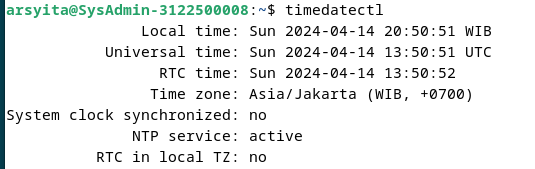
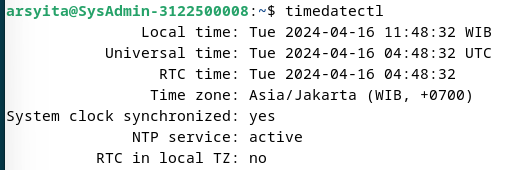
edit

diff --git a/Tugas_5/README.md b/Tugas_5/README.md
@@ -41,101 +41,116 @@ POLITEKNIK ELEKTRONIKA NEGERI SURABAYA <br>
    ![alt text](img/pic8.png)
 7. Cek kesesuaian tanggal
    ![alt text](img/pic9.png)
+8. Cek status
+   ![alt text](img/pic10.png)
 
 ## Install Web Server (Apache2 + PHP-FM)
 1. Install apache 2
-   ```
-   sudo apt -y install apache2
-   ```
+   ![alt text](img/pic11.png)
+
 2. Lakukan konfigurasi Apache2
    ```
    sudo nano /etc/apache2/conf-enabled/security.conf
    ```
-   ![alt text](img/pic10.png)
+   ![alt text](img/pic12.png)
     ```
    sudo nano /etc/apache2/mods-enabled/dir.conf
    ```
-   ![alt text](img/pic11.png)
+   ![alt text](img/pic13.png)
    ```
    sudo nano /etc/apache2/apache2.conf
    ```
-   ![alt text](img/pic12.png)
+   ![alt text](img/pic14.png)
    ```
    sudo nano /etc/apache2/sites-enabled/000-default.conf
    ```
-   ![alt text](img/pic13.png)
+   ![alt text](img/pic15.png)
    ```
    systemctl reload apache2
    ```
-   ![alt text](img/pic14.png)
 3. Test ke web browser
-   ![alt text](img/pic15.png)
+   ![alt text](img/pic16.png)
 
 ## Install PHP 8.2
 1. Lakukan penginstalan
-   ![alt text](img/pic16.png)
-2. Mengecek versi php dan test
    ![alt text](img/pic17.png)
+2. Mengecek versi php dan test
    ![alt text](img/pic18.png)
+   ![alt text](img/pic19.png)
 
 ## Install PHP-FM
 1. Lakukan penginstalan
-   ![alt text](img/pic17.png)
-2. Konfifurasi PHP-FM pada file konfigurasi Apache
-   ![alt text](img/pic18.png)
-3. Test validasi PHP-FM degan membuat file info.php di root document
-   ![alt text](img/pic19.png)
-4. Lakukan test di browser
    ![alt text](img/pic20.png)
+2. Konfifurasi PHP-FM pada file konfigurasi Apache
+   ```
+      systemctl reload apache2 
+   ```
+   ![alt text](img/pic21.png)
+   ![alt text](img/pic22.png)
+   ```
+      sudo systemctl restart php8.2-fpm apache2 
+   ```
+3. Test validasi PHP-FM degan membuat file info.php di root document
+   ```
+      sudo nano /var/www/html/info.php
+   ```
+   ![alt text](img/pic23.png)
+4. Lakukan test di browser
+   ![alt text](img/pic24.png)
 
 # Database System : MariaDB
 1. Lakukan penginstalan
-   ![alt text](img/pic21.png)
+   ![alt text](img/pic25.png)
 2. Lakukan konfigurasi
-   ![alt text](img/pic22.png)
+   ```
+   sudo nano /etc/mysql/mariadb.conf.d/50-server.cnf
+   ```
+   ![alt text](img/pic.png)
 3. Lakukan restart mariadb
-   ![alt text](img/pic23.png)
+   ```
+   sudo systemctl restart mariadb
+   ```
 4. Inisialisasi konfigurasi dan testing database mariadb
    ```
    sudo mysql_secure_installation
    ```
-   ![alt text](img/pic24.png)
+   ![alt text](img/pic27.png)
    ```
    sudo mysql
    ```
-   ![alt text](img/pic25.png)
+   ![alt text](img/pic28.png)
    ```
    show grants for root@localhost;
    ```
-   ![alt text](img/pic26.png)
+   ![alt text](img/pic29.png)
    ```
    select user,host,password from mysql.user; 
    ```
-   ![alt text](img/pic27.png)
+   ![alt text](img/pic30.png)
    ```
    show databases; 
    ```
-   ![alt text](img/pic28.png)
+   ![alt text](img/pic31.png)
    ```
    create database test_database;
    ```
-   ![alt text](img/pic29.png)
+   ![alt text](img/pic32.png)
    ```
    create table test_database.test_table (id int, name varchar(50), address varchar(50), primary key (id)); 
    ```
-   ![alt text](img/pic30.png)
+   ![alt text](img/pic33.png)
    ```
     insert into test_database.test_table(id, name, address) values("001", "Debian", "Hiroshima"); 
    ```
-   ![alt text](img/pic31.png)
+   ![alt text](img/pic34.png)
    ```
     select * from test_database.test_table;
    ```
-   ![alt text](img/pic32.png)
+   ![alt text](img/pic35.png)
    ```
     drop database test_database; 
    ```
-   ![alt text](img/pic33.png)
+   ![alt text](img/pic36.png)
 
 ## Melakukan Install PHPMYADMIN
 1. Lakukan penginstalan
@@ -143,25 +158,24 @@ POLITEKNIK ELEKTRONIKA NEGERI SURABAYA <br>
     sudo apt install phpmyadmin
    ```
 2. Pilih apache2 sebagai web server
-   ![alt text](img/pic34.png)
 3. Pilih ya untuk konfigurasi database phpmyadmin
-   ![alt text](img/pic35.png)
 4. Masukkan password
    ![alt text](img/pic37.png)
-   ![alt text](img/pic38.png)
 5. Create Apache Configuration for phpMyAdmin
    ```
     sudo nano /etc/apache2/apache2.conf
    ```
-   ![alt text](img/pic39.png)
+   ![alt text](img/pic38.png)
 6. Membuka phpmyadmin di browser
-   ![alt text](img/pic40.png)
-   ![alt text](img/pic41.png)
 7. Menambahkan prifilage ke user phpmyadmin
-   - Login ke mariadb
-   - Masukkan perintah GRANT ALL PRIVILEGES ON *.* TO 'phpmyadmin'@'localhost' IDENTIFIED BY 'password' WITH GRANT OPTION; FLUSH PRIVILEGES;
-   ![alt text](img/pic42.png)
-   ![alt text](img/pic43.png)
+   ```
+    sudo mariadb -u root -p
+   ```
+   ![alt text](img/pic39.png)
+   ```
+     GRANT ALL PRIVILEGES ON *.* TO 'phpmyadmin'@'localhost' IDENTIFIED BY 'password' WITH GRANT OPTION; FLUSH PRIVILEGES;
+   ```
+   ![alt text](img/pic40.png)
 
 ## Melakukan install email system
 1. Lakukan penginstalan
@@ -169,33 +183,49 @@ POLITEKNIK ELEKTRONIKA NEGERI SURABAYA <br>
     sudo apt -y install postfix sasl2-bin
    ```
 2. Pilih no konfigurasi
-   ![alt text](img/pic44.png)
-3. Buat salinn file konfigurasi default
+   ![alt text](img/pic41.png)
+3. Buat salinan file konfigurasi default
    ```
     sudo cp /usr/share/postfix/main.cf.dist /etc/postfix/main.cf
    ```
-   ![alt text](img/pic45.png)
 4. Edit konfigurasi
    ```
     sudo nano /etc/postfix/main.cf
    ```
+   ![alt text](img/pic42.png)
+   ![alt text](img/pic43.png)
+   ![alt text](img/pic44.png)
+   ![alt text](img/pic45.png)
    ![alt text](img/pic46.png)
+   ![alt text](img/pic47.png)
+   ![alt text](img/pic48.png)
+   ![alt text](img/pic49.png)
+   ![alt text](img/pic50.png)
+   ![alt text](img/pic51.png)
+   ![alt text](img/pic52.png)
+   ![alt text](img/pic53.png)
+   ![alt text](img/pic54.png)
+   ![alt text](img/pic55.png)
+   ![alt text](img/pic56.png)
+   ![alt text](img/pic57.png)
+   ![alt text](img/pic58.png)
+   ![alt text](img/pic59.png)
 5. Perbarui database alias
    ```
     sudo newaliases
    ```
-   ![alt text](img/pic.png)
 6. Lakukan restart postfix
    ```
     systemctl restart postfix
    ```
-   ![alt text](img/pic.png)
 
 ## Menambahkan knfigurasi anti spam
 1. Lakukan edit file main.cf
-   ![alt text](img/pic.png)
+   ![alt text](img/pic60.png)
 2. Restart postfix
-   ![alt text](img/pic.png)
+   ```
+    systemctl restart postfix
+   ```
 
 ## DOVECOT : IMAP4 (TCP 143) and POP3 (TCP110) Server
 1. Lakukan instal Devecot Server
@@ -206,23 +236,23 @@ POLITEKNIK ELEKTRONIKA NEGERI SURABAYA <br>
    ```
     sudo nano /etc/dovecot/dovecot.conf
    ```
-   ![alt text](img/pic.png)
+   ![alt text](img/pic61.png)
 3. Edit file 10-auth.conf
    ```
     sudo nano /etc/dovecot/conf.d/10-auth.conf
    ```
-   ![alt text](img/pic.png)
-   ![alt text](img/pic.png)
+   ![alt text](img/pic62.png)
+   ![alt text](img/pic63.png)
 4. Edit file 10-mail.conf
    ```
     sudo nano /etc/dovecot/conf.d/10-mail.conf
    ```
-   ![alt text](img/pic.png)
+   ![alt text](img/pic64.png)
 5. Edit file 10-master.conf
    ```
     sudo nano /etc/dovecot/conf.d/10-master.conf
    ```
-   ![alt text](img/pic.png)
+   ![alt text](img/pic65.png)
 6. Restart devecot
    ```
     sudo systemctl restart dovecot
@@ -233,28 +263,36 @@ POLITEKNIK ELEKTRONIKA NEGERI SURABAYA <br>
    ```
     netstat -a| grep LISTEN
    ```
-   ![alt text](img/pic.png)
+   ![alt text](img/pic66.png)
 2. Cek layanan posfix
    ```
     telnet mail.kelompok6.local 25
    ```
-   ![alt text](img/pic.png)
 
 ## Install webmail (RoundCube)
 1. Configure SSL/TLS settings on Apache2 Server, refer to here. 
-   
-   
+   ```
+    sudo apt -y install certbot
+   ```
+   ```
+    sudo openssl req -x509 -nodes -days 365 -newkey rsa:2048 -keyout /etc/ssl/private/kelompok6.local.key -out /etc/ssl/certs/kelompok6.local.crt
+   ```
+   ![alt text](img/pic67.png)
+   ![alt text](img/pic68.png)
+   ```
+    sudo cp default-ssl.conf kelompok6.local-ssl.conf
+   ```
+   ![alt text](img/pic69.png)
 2. Buat database untuk RoundCube
    ```
     sudo mysql -u root -p
    ```
-   ![alt text](img/pic.png)
+   ![alt text](img/pic70.png)
 3. Install dan konfigurasi RoundCube
    ```
     sudo apt -y install roundcube roundcube-mysql
    ```
-   ![alt text](img/pic.png)
-   ![alt text](img/pic.png)
+   ![alt text](img/pic71.png)
 4. Berpindah direktori
    ```
     cd /usr/share/dbconfig-common/data/roundcube/install
@@ -267,13 +305,13 @@ POLITEKNIK ELEKTRONIKA NEGERI SURABAYA <br>
    ```
     sudo nano /etc/roundcube/debian-db.php
    ```
-   ![alt text](img/pic.png)
+   ![alt text](img/pic72.png)
 7. Lakukan edit pada file config.inc.php
    ```
     sudo nano /etc/roundcube/config.inc.php
    ```
-   ![alt text](img/pic.png)
-   ![alt text](img/pic.png)
+   ![alt text](img/pic73.png)
+   ![alt text](img/pic74.png)
 8. Lakukan edit pada file roundcube.conf
    ```
     sudo nano /etc/apache2/conf-enabled/roundcube.conf
